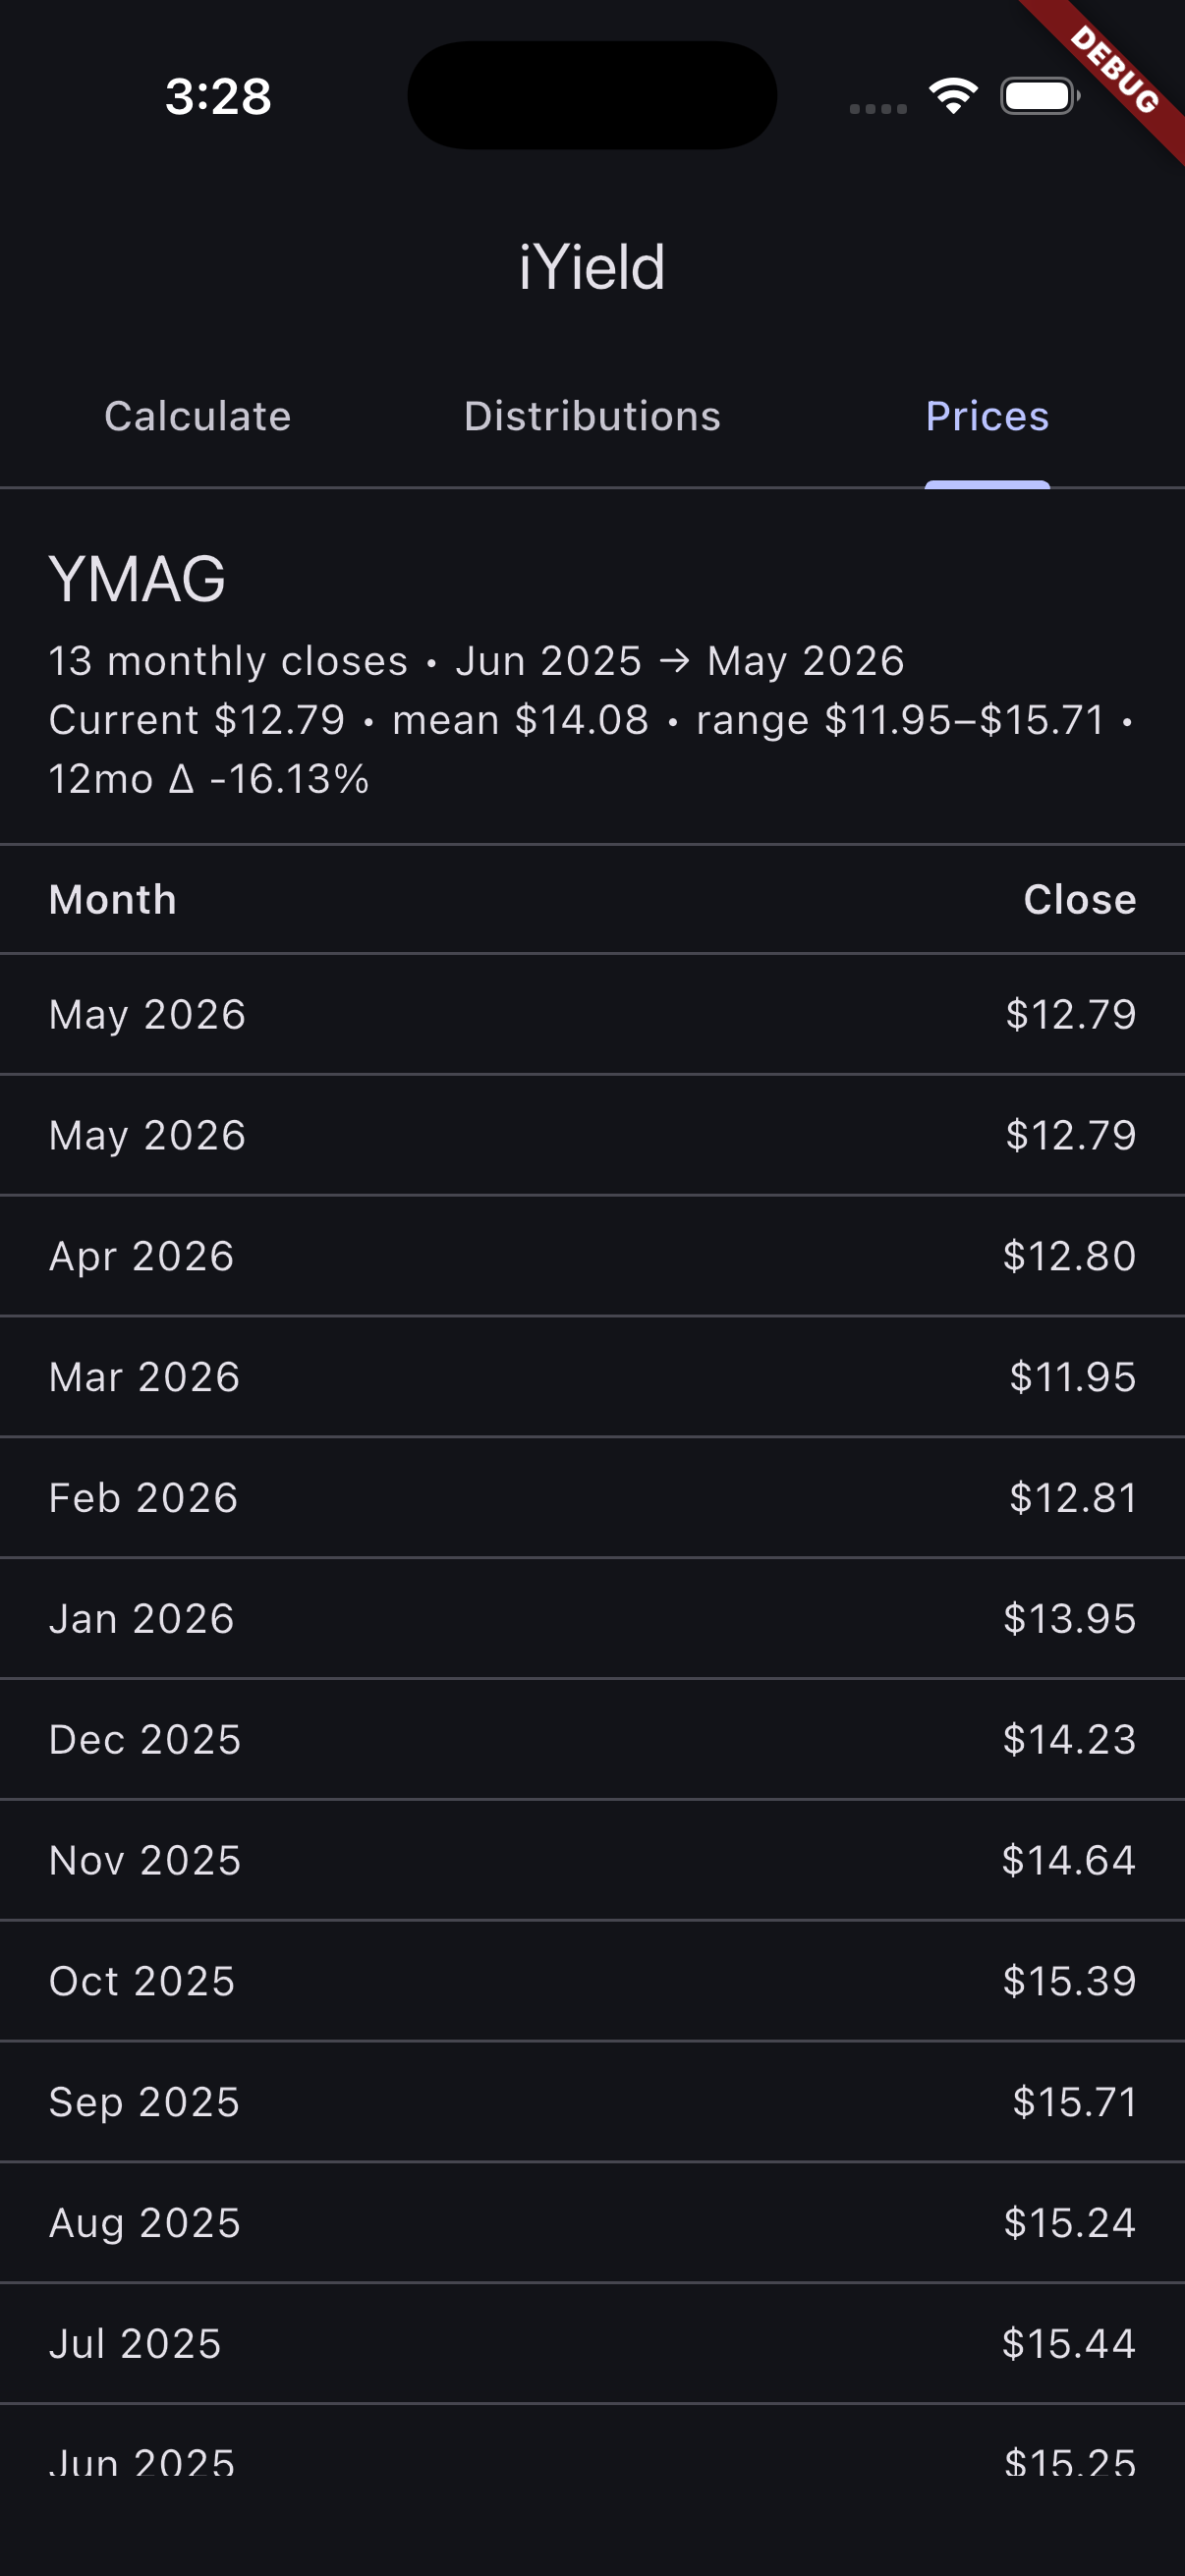
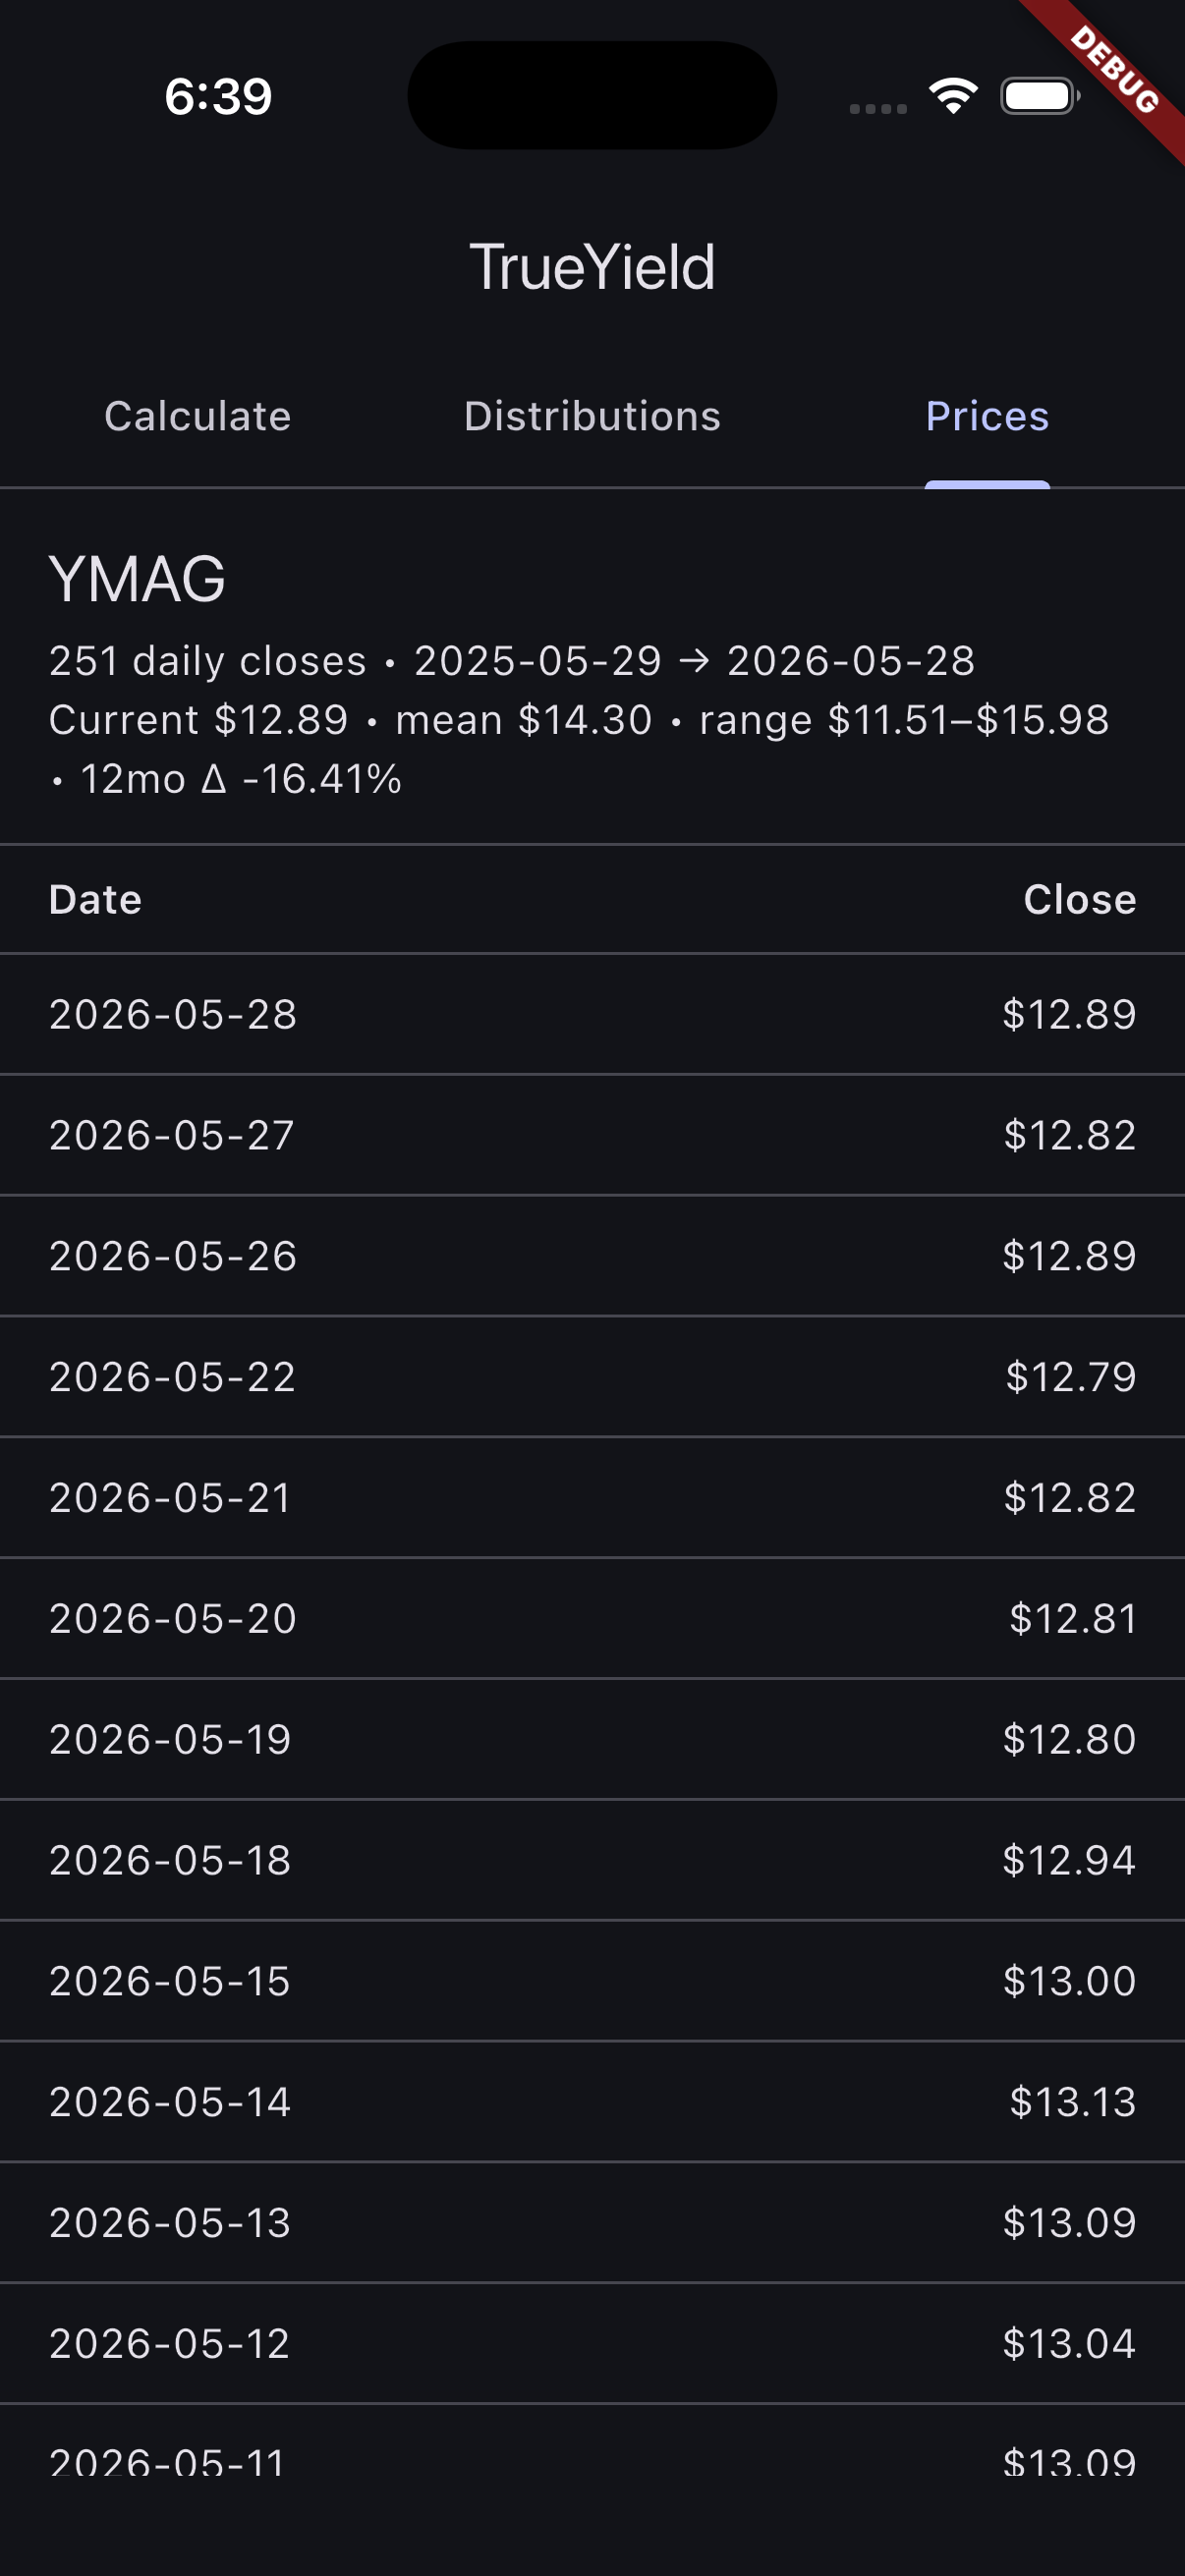
Refresh docs for the ROC redesign + TrueYield rebrand
- Re-capture all three screenshots from the current app (Calculate with the
  ROC/total-return panel + DRIP memo, Distributions with the ROC/income split
  header, Prices) and drop the stale "earlier build" note.
- Point the README CI badge at the renamed repo and note the web-only proxy
  routing test in the Development summary.
- Regenerate TEST_REPORT.md: 44 tests (adds the yahoo_base_test suite),
  98.7% coverage, branch main.
- yield_ref.py: read fixtures from /tmp/trueyield_fixtures/.

diff --git a/tools/yield_ref.py b/tools/yield_ref.py
@@ -124,7 +124,7 @@ def main():
     roc_by_ticker = {"YMAG": 71.0, "TQQQ": 0.0}
     rows = []
     for t in ("YMAG", "TQQQ"):
-        fx = load_fixture(f"/tmp/iyield_fixtures/{t}.json")
+        fx = load_fixture(f"/tmp/trueyield_fixtures/{t}.json")
         out = compute(
             ticker=fx["ticker"],
             current_price=fx["currentPrice"],

diff --git a/TEST_REPORT.md b/TEST_REPORT.md
@@ -1,8 +1,8 @@
 # TrueYield — Test Report
 
-**Date:** 2026-05-28
-**Branch:** `claude/todays-charges-DMByB`
-**Toolchain:** Flutter 3.44.0 (stable) · Dart 3.12.0
+**Date:** 2026-05-29
+**Branch:** `main`
+**Toolchain:** Flutter 3.41.7 (stable)
 
 ## Summary
 
@@ -10,8 +10,8 @@
 |---|---|---|
 | Formatting | `dart format --output=none --set-exit-if-changed .` | ✅ Clean |
 | Static analysis | `flutter analyze` | ✅ No issues found |
-| Tests | `flutter test` | ✅ **41 / 41 passed** |
-| Line coverage | `flutter test --coverage` | **98.6%** (506 / 513 lines) |
+| Tests | `flutter test` | ✅ **44 / 44 passed** |
+| Line coverage | `flutter test --coverage` | **98.7%** (515 / 522 lines) |
 
 These are the same three gates enforced by `.github/workflows/ci.yml` and the
 `.githooks/pre-commit` hook.
@@ -22,16 +22,17 @@ These are the same three gates enforced by `.github/workflows/ci.yml` and the
 |---|---:|---|
 | `test/yield_math_test.dart` | 20 | The pure `YieldMath` engine on the broker-DRIP / return-of-capital model: flat-price baseline, the ROC income split (0% and 100%), price-drop and price-rise total return, distribution ordering, the no-distribution and all-null-close edge cases, `priceAt` back- and forward-walk, a distribution dated before the first bar, combined tax rates at/above 100%, and `rocPct` clamping. Includes real daily-bar **YMAG** and **TQQQ** fixtures whose expected values are cross-checked against the Python reference in `tools/yield_ref.py`, plus invariant checks tying the published fields (`dripShares`, `nav`, `incomeAmount`, `taxThisYear`, `costBasis`, `unrealizedGL`, `afterTaxYieldRoc`, `totalReturnBeforeTax/AfterTax`) back to their primitives. |
 | `test/yahoo_parser_test.dart` | 7 | The pure `parseYahooChart` JSON parser: happy path, null close → null `PriceBar`, skipped malformed dividend entries, and every error branch (API error envelope, empty result, null result, missing price). |
+| `test/yahoo_base_test.dart` | 3 | `resolveYahooBase` routing: the CORS proxy is used **only on web** and only when one is configured; native targets (iOS/Android/desktop) always call Yahoo directly — even if a proxy value is present. Guards against the routing silently regressing. |
 | `test/widget_test.dart` | 14 | UI and end-to-end flow: app boot, form rendering (incl. the return-of-capital field), three tabs, empty-state placeholders, input validation (empty ticker, non-numeric rate, out-of-range ROC), and tap-to-select-all. Via an injected mock `http.Client`, the full Calculate → parse → render path: the qualifying result card (total return after tax, income, tax, advertised & after-tax yields), the populated Distributions and Prices tabs (incl. the em-dash for a null close), the "Does not qualify" card, and the HTTP-error message — plus ticker upper-casing and `interval=1d` endpoint params in the outgoing request. |
-| **Total** | **36** | |
+| **Total** | **44** | |
 
 Shared test assets: `test/yahoo_fixture.dart` builds canned Yahoo Finance
 chart payloads; `test/fixtures/` holds the captured YMAG/TQQQ daily responses.
 
 ## Coverage
 
-`lib/main.dart` — the only application source file — is **98.6% covered**
-(506 / 513 lines). The 7 uncovered lines are:
+`lib/main.dart` — the only application source file — is **98.7% covered**
+(515 / 522 lines). The 7 uncovered lines are:
 
 - the `main()` / `runApp` entry point (run only on a real device launch),
 - four identical `onTap: () => _selectAll(...)` field closures (the same

diff --git a/README.md b/README.md
@@ -4,7 +4,7 @@
 
 # TrueYield
 
-[![CI](https://github.com/jimzucker/iYield/actions/workflows/ci.yml/badge.svg)](https://github.com/jimzucker/iYield/actions/workflows/ci.yml)
+[![CI](https://github.com/jimzucker/TrueYield/actions/workflows/ci.yml/badge.svg)](https://github.com/jimzucker/TrueYield/actions/workflows/ci.yml)
 [![License: Apache 2.0](https://img.shields.io/badge/License-Apache_2.0-blue.svg)](./LICENSE)
 
 **Know what a dividend stock or ETF actually pays you — after taxes, and after the share price moves.**
@@ -25,8 +25,6 @@ TrueYield is a mobile app that takes a ticker and your marginal tax rates and an
 <td><img src="docs/screenshots/prices.png" alt="Prices tab listing daily closes"/></td>
 </tr>
 </table>
-
-> Note: the screenshots above are from an earlier build and don't yet show the return-of-capital / total-return layout described below; they'll be refreshed from the simulator.
 
 ## Why TrueYield
 
@@ -104,7 +102,7 @@ flutter test
   git config core.hooksPath .githooks
   ```
 
-The test suite covers the broker-DRIP / return-of-capital math (flat-price baseline, the ROC income split, price-drop and price-rise total return, distribution ordering, and daily-bar YMAG/TQQQ fixtures verified against the Python reference in [`tools/yield_ref.py`](./tools/yield_ref.py)), the Yahoo response parser and each of its error branches, the no-distribution and null-price edge cases, and the app's tab rendering, input validation (including the return-of-capital range), and saved-input restoration.
+The test suite covers the broker-DRIP / return-of-capital math (flat-price baseline, the ROC income split, price-drop and price-rise total return, distribution ordering, and daily-bar YMAG/TQQQ fixtures verified against the Python reference in [`tools/yield_ref.py`](./tools/yield_ref.py)), the Yahoo response parser and each of its error branches, the no-distribution and null-price edge cases, the web-only CORS-proxy routing (native targets always call Yahoo directly), and the app's tab rendering, input validation (including the return-of-capital range), and saved-input restoration.
 
 See [SESSION_LOG.md](./SESSION_LOG.md) for the project's iteration history.
 